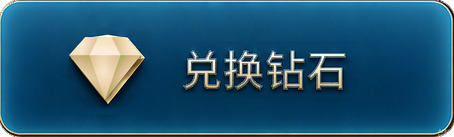
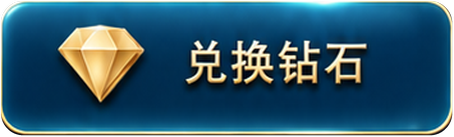
美术：我的页 10 个操作按钮换新版，牌桌强制秀牌与看剩余牌按钮换图
- 覆盖 assets/V7 下 mine_*_exact.png 共 10 张，UUID 与节点结构不变
- e1/e2 换深蓝金边同风格按钮，仅更新透明边缘 trim，业务回调继续复用

diff --git a/docs/memory/handoffs/2026-11-17-my-buttons-v9.md b/docs/memory/handoffs/2026-11-17-my-buttons-v9.md
@@ -1,0 +1,38 @@
+# 2026-11-17 我的页 10 个操作按钮统一美术
+
+## 目录与范围
+
+- 项目：`/Volumes/SSD/qing`
+- 分支：`codex/club-ui`
+- 用户已确认生成的新版效果并授权替换到游戏。
+- 本轮只替换「我的」页中间 5×2 操作按钮的正式 PNG，不改业务脚本、节点名、事件、权限显隐或布局。
+
+## 修改
+
+覆盖 `assets/V7/` 下 10 个正式资源：
+
+- `mine_updown_exact.png`
+- `mine_stone_pool_cost_exact.png`
+- `mine_gift_exact.png`
+- `mine_money_exact.png`
+- `mine_exchange_exact.png`
+- `mine_stone_water_exact.png`
+- `mine_record_exact.png`
+- `mine_settings_exact.png`
+- `mine_quota_grant_exact.png`
+- `mine_chengfa_exact.png`
+
+新图统一深蓝玻璃按钮底、金色边框、立体金色图标、米白金边字、阴影与文字中线。每张图按原资源尺寸导出，原 `.meta` 和 UUID 未改，因此 `panelMain.prefab` 的 SpriteFrame 引用保持不变。
+
+## 验证
+
+- 10 个按钮节点逐一核对，Prefab SpriteFrame UUID 仍分别对应上述 10 个资源。
+- 10 张 PNG 的尺寸与原 `.meta` 一致，四角透明，适合现有圆角按钮显示。
+- `panelMain.prefab` 当前仍保留原按钮节点、Button 组件和动态权限逻辑。
+- `git diff --check` 的全量输出被既有未提交的服务器文档尾随空格占用；本轮资源与记忆文件没有新增该类问题。
+- `tools/validate_v7_responsive_layout.py` 已运行，但被既有 `assets/resources/UI/panelLogin.prefab:登录LOGO alignFlags=18，预期17` 阻断；该失败点不涉及本轮 10 张按钮资源。
+
+## 未验证与下一步
+
+- 未执行 Creator 导入/保存、网页实际预览、Creator 构建、正式构建、真机和真实账号操作。
+- 下一步先让 Creator 重新导入 10 张 PNG，再核对短屏/长屏下的按钮间距和第 5 行入口；确认显示后再决定是否生成新 APK/IPA。

diff --git a/docs/memory/handoffs/2026-11-17-force-show-look-remaining-art.md b/docs/memory/handoffs/2026-11-17-force-show-look-remaining-art.md
@@ -1,0 +1,27 @@
+# 2026-11-17 牌桌强制秀牌 / 看剩余牌美术替换
+
+## 目录与分支
+
+- 项目：`/Volumes/SSD/qing`
+- 分支：`codex/club-ui`
+
+## 目标
+
+按用户附图替换牌桌「强制秀牌」与「看剩余牌」两枚圆形按钮的旧美术。
+
+## 改动
+
+- `assets/ImagesLuck/游戏内/e1.png`：替换为深蓝金边、牌图标、金色叶饰、浅金「强制秀牌」按钮。
+- `assets/ImagesLuck/游戏内/e2.png`：替换为同风格黑桃图标、浅金「看剩余牌」按钮。
+- 两个 `.meta` 的资源 UUID 与 SpriteFrame UUID 保持不变；仅自动更新透明边缘的 trim 范围。
+- 未改动 `panelGameView.prefab`、`drh8.fire`、`panelGameView.ts`；原节点名、价格 Label、Button 和业务回调继续复用。
+
+## 验证
+
+- PNG 尺寸与 `.meta`：`e1=105×115`、`e2=105×116`，均为 RGBA，透明边缘有效。
+- 静态检查确认 Prefab/Scene 均保留 `cmd6/强制秀牌/看剩余牌` 节点及原 SpriteFrame UUID。
+- `python3 docs/memory/check_memory.py check --root "/Volumes/SSD/qing"`：0 个错误；已有文档超预算警告未因本次内容产生。
+
+## 待验证
+
+- 未执行 Creator 导入、网页预览、正式构建、真机或在线验收。
